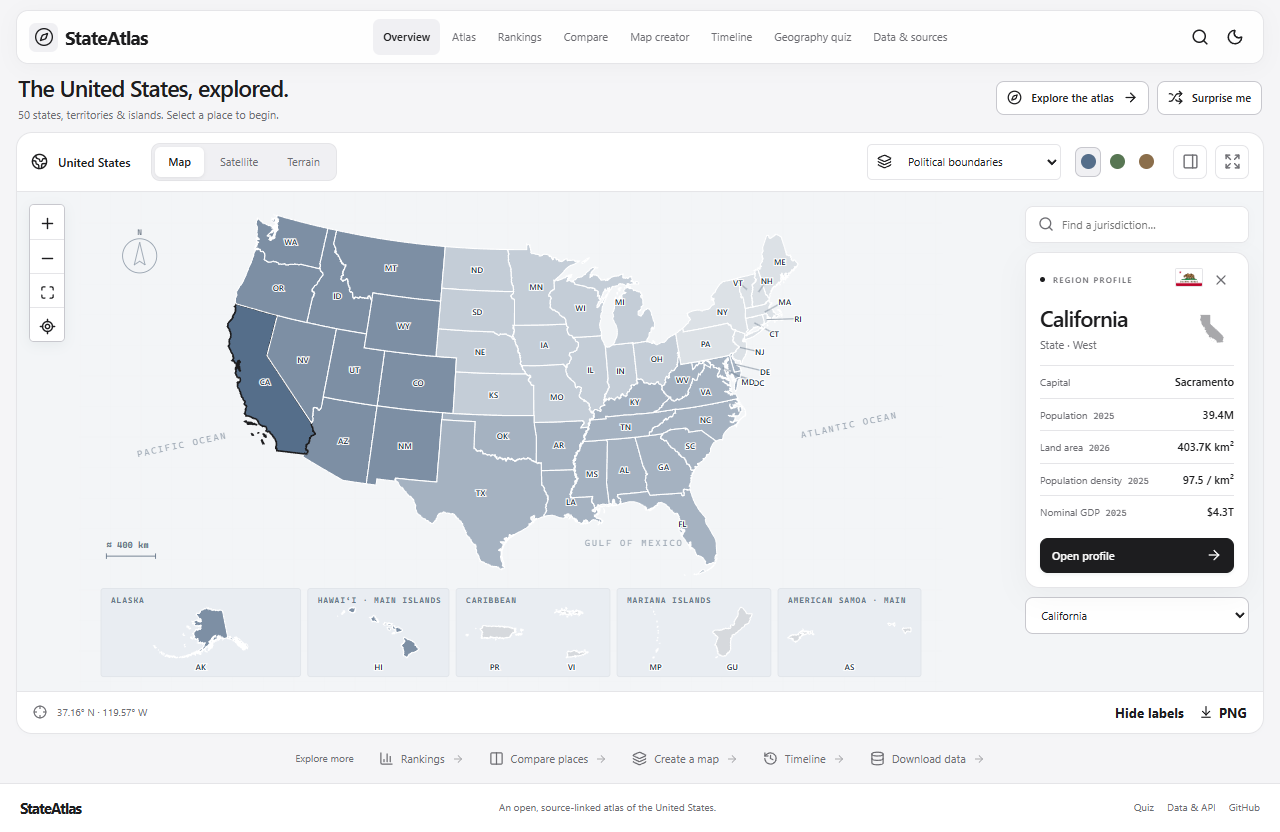
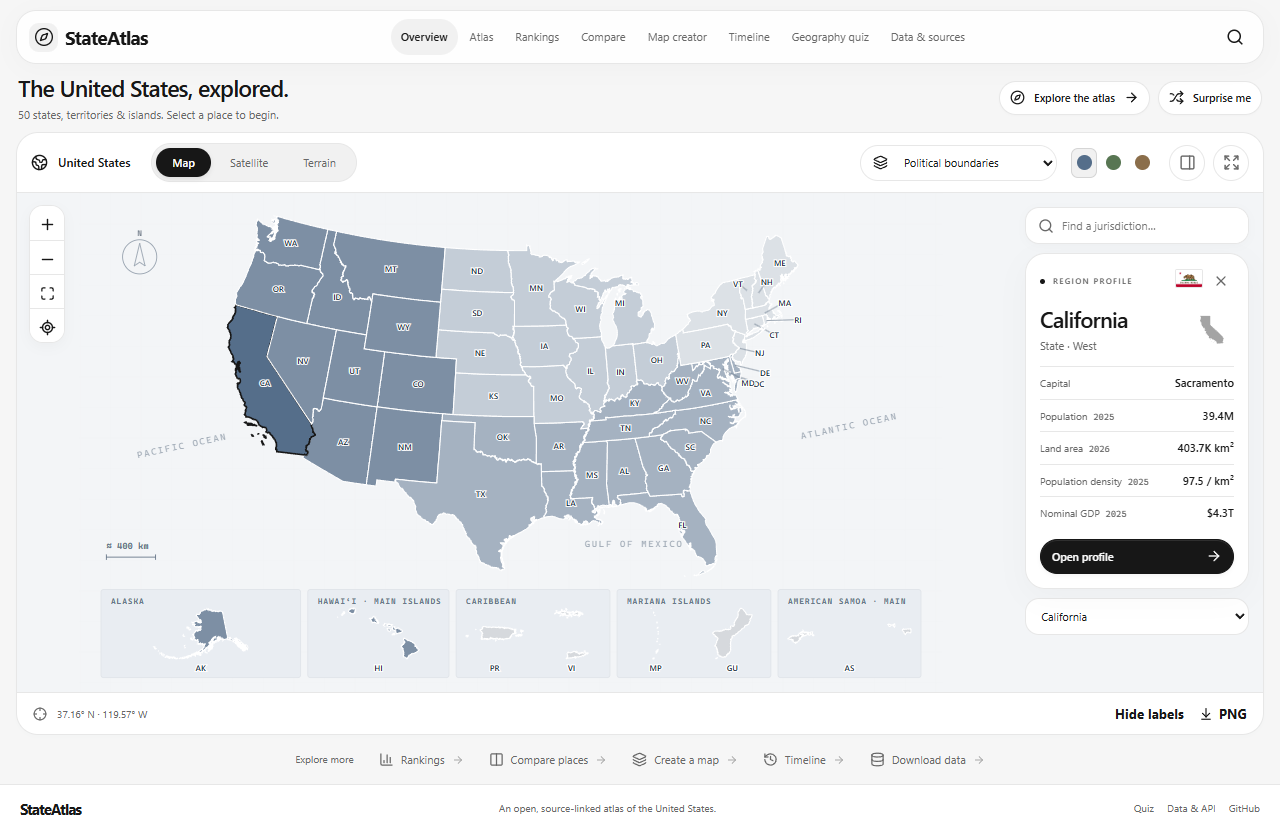
style: unify monochrome theme and refine rounded controls

diff --git a/app/workspace.css b/app/workspace.css
@@ -396,13 +396,13 @@ body > main { min-height: calc(100dvh - 128px); }
   .site-footer .footer-inner { padding-block: 12px; gap: 5px; }
 }
 
-/* Monochrome application chrome; geographic color is reserved for the map. */
+/* One monochrome interface; geographic color is reserved for the map. */
 ::selection { color: var(--surface); background: var(--ink); }
 button:focus-visible, a:focus-visible, input:focus-visible, select:focus-visible { outline-color: var(--ink); }
-.site-header { background: color-mix(in srgb, var(--surface) 88%, transparent); border-color: var(--line); color: var(--ink); backdrop-filter: blur(20px); box-shadow: 0 3px 20px #00000008; }
+.site-header { background: color-mix(in srgb, var(--surface) 88%, transparent); border-color: var(--line); color: var(--ink); backdrop-filter: blur(20px); box-shadow: 0 4px 24px #00000006; border-radius: 20px; }
 .site-header .brand, .site-header .brand > span > span { color: var(--ink); }
 .site-header .brand-icon { color: var(--ink); background: var(--surface-alt); }
-.header-inner nav a { color: var(--muted); }
+.header-inner nav a { color: var(--muted); border-radius: 999px; }
 .header-inner nav a:hover, .header-inner nav a[aria-current] { color: var(--ink); background: var(--surface-alt); }
 .site-header .header-tools .icon-button, .mobile-menu { color: var(--ink); }
 .site-header .header-tools .icon-button:hover, .mobile-menu:hover { background: var(--surface-alt); color: var(--ink); }
@@ -418,15 +418,15 @@ button:focus-visible, a:focus-visible, input:focus-visible, select:focus-visible
 .map-toolbar .map-tag { color: var(--ink); }
 .map-toolbar .map-tag small { display: none; }
 .map-toolbar .map-tag strong { font-size: 12px; font-weight: 600; }
-.atlas-card { border-radius: 16px; }
+.atlas-card { border-radius: 22px; }
 .atlas-workspace .map-toolbar { padding: 10px 14px; gap: 15px; flex-wrap: wrap; min-height: 58px; }
-.map-modes { display: flex; align-items: center; gap: 3px; border: 1px solid var(--line); border-radius: 9px; padding: 3px; background: var(--surface-alt); margin-left: 6px; }
-.map-modes button { background: transparent; border: 0; border-radius: 6px; font-size: 11px; padding: 6px 13px; min-height: 29px; color: var(--muted); }
-.map-modes button[aria-pressed="true"] { background: var(--surface); color: var(--ink); font-weight: 600; box-shadow: 0 1px 4px #00000013; }
+.map-modes { display: flex; align-items: center; gap: 3px; border: 1px solid var(--line); border-radius: 999px; padding: 4px; background: var(--surface-alt); margin-left: 6px; }
+.map-modes button { background: transparent; border: 0; border-radius: 999px; font-size: 11px; padding: 6px 16px; min-height: 29px; color: var(--muted); }
+.map-modes button[aria-pressed="true"] { background: var(--ink); color: #fff; font-weight: 600; box-shadow: 0 2px 5px #00000015; }
 .map-toolbar-actions { display: flex; align-items: center; gap: 8px; margin-left: auto; }
 .map-toolbar-actions > .select-control { max-width: 200px; border-color: var(--line); }
 .map-toolbar-actions select { min-height: 34px; font-size: 11px; width: 100%; }
-.map-toolbar-actions .icon-button { width: 34px; height: 34px; border: 1px solid var(--line); }
+.map-toolbar-actions .icon-button { width: 36px; height: 36px; border: 1px solid var(--line); border-radius: 50%; }
 .palette-picker { display: flex; align-items: center; gap: 3px; padding: 0 6px; }
 .palette-swatch { width: 26px; height: 30px; border: 1px solid transparent; background: transparent; border-radius: 7px; padding: 4px; display: grid; place-items: center; }
 .palette-swatch span { display: block; width: 15px; height: 15px; border-radius: 50%; }
@@ -436,7 +436,7 @@ button:focus-visible, a:focus-visible, input:focus-visible, select:focus-visible
 .map-scene .atlas-sidebar { width: 224px; }
 .map-scene .atlas-sidebar[hidden] { display: none; }
 .details-hidden .map-scene .atlas-svg { width: 100%; }
-.map-scene .region-card { border-color: var(--line); border-radius: 14px; box-shadow: 0 8px 30px #0000000a; }
+.map-scene .region-card { border-color: var(--line); border-radius: 20px; box-shadow: 0 8px 30px #00000007; }
 .map-scene .region-picker label { border-color: var(--line); box-shadow: 0 2px 10px #00000005; }
 .map-scene .region-title .silhouette { color: var(--muted); }
 .map-scene .region-card-label .eyebrow { letter-spacing: 1.3px; }
@@ -456,7 +456,7 @@ button:focus-visible, a:focus-visible, input:focus-visible, select:focus-visible
 .raster-status > span { white-space: nowrap; }
 .imagery-overview { position: absolute; left: 10px; top: 116px; min-height: 31px; font-size: 10px; padding: 6px 9px; z-index: 1; }
 .maplibregl-ctrl-attrib { font-size: 10px !important; max-width: calc(100% - 20px); }
-.maplibregl-ctrl-group { border-radius: 8px !important; overflow: hidden; }
+.maplibregl-ctrl-group { border-radius: 14px !important; overflow: hidden; }
 .atlas-expanded { position: fixed; z-index: 80; inset: 0; background: var(--paper); padding: 0; }
 .atlas-expanded > .atlas-card { height: 100%; display: flex; flex-direction: column; border-radius: 0; border: 0; }
 .atlas-expanded .map-scene { flex: 1; min-height: 0; overflow: auto; }
@@ -488,4 +488,33 @@ button:focus-visible, a:focus-visible, input:focus-visible, select:focus-visible
   .atlas-expanded .raster-panel { height: 65dvh; }
   .atlas-expanded.details-hidden .raster-panel { height: 100%; }
   .raster-status { font-size: 9px; }
+}
+
+/* Rounded controls and restrained depth across atlas tools. */
+button, input, select { border-radius: 12px; }
+button, .primary-button, .quiet-button, .header-inner nav a { transition: background-color 160ms ease, border-color 160ms ease, box-shadow 160ms ease, transform 160ms ease; }
+.primary-button, .quiet-button { border-radius: 999px; min-height: 40px; padding: 10px 18px; font-weight: 600; letter-spacing: -.1px; }
+.primary-button { background: #171717; color: #fff; border-color: #171717; box-shadow: inset 0 1px 0 #ffffff1a, 0 2px 4px #0000000a; }
+.primary-button:hover { background: #303030; border-color: #303030; box-shadow: 0 4px 10px #00000012; }
+.quiet-button { border-color: var(--line); box-shadow: 0 1px 2px #00000004; }
+.quiet-button:hover { background: #f5f5f5; border-color: #d2d2d2; }
+button:active:not(:disabled), .primary-button:active, .quiet-button:active { transform: translateY(1px); }
+.icon-button { border-radius: 50%; }
+.site-header .header-search { background: var(--surface-alt); }
+.site-header .brand-icon { border-radius: 10px; }
+.select-control { border-radius: 999px; padding-left: 12px; overflow: hidden; }
+.select-control select { border-radius: 999px; }
+.map-modes button:hover:not([aria-pressed="true"]) { background: #e6e6e6; color: var(--ink); }
+.map-scene .region-picker label { border-radius: 14px; }
+.map-scene .region-picker input { border-radius: 14px; }
+.jump-control select { border-radius: 14px; border-color: var(--line); }
+.map-scene .profile-link { border-radius: 999px; }
+.map-scene .map-zoom { border-radius: 14px; border-color: var(--line); box-shadow: 0 4px 12px #00000008; }
+.map-zoom button:hover:not(:disabled) { background: var(--surface-alt); }
+.panel, .feature-card, .timeline-canvas, .timeline-value, .compare-card, .ranking-map, .creator-map { border-radius: 20px; }
+.command-dialog { border-radius: 24px; }
+.command-results button { border-radius: 12px; }
+.table-scroll { border-radius: 16px; }
+@media (prefers-reduced-motion: reduce) {
+  button, .primary-button, .quiet-button, .header-inner nav a { transition: none; }
 }

diff --git a/components/navigation.tsx b/components/navigation.tsx
@@ -2,8 +2,8 @@
 
 import Link from "next/link";
 import { usePathname, useRouter } from "next/navigation";
-import { ArrowRight, BarChart3, Compass, Database, GraduationCap, History, House, Layers3, Map, Menu, Moon, Search, Sun, Columns2, X } from "lucide-react";
-import { useEffect, useRef, useState, useSyncExternalStore } from "react";
+import { ArrowRight, BarChart3, Compass, Database, GraduationCap, History, House, Layers3, Map, Menu, Search, Columns2, X } from "lucide-react";
+import { useEffect, useRef, useState } from "react";
 import { metrics } from "@/lib/metrics";
 import type { Region } from "@/lib/types";
 
@@ -19,13 +19,6 @@ export const nav = [
 ];
 
 const github = "https://github.com/PRABHMANNAT/united-states-territories-mapper-geoatlas";
-const themeEvent = "stateatlas-theme-change";
-const readTheme = () => document.documentElement.dataset.theme === "dark";
-const initialTheme = () => false;
-function subscribeTheme(listener: () => void) {
-  window.addEventListener(themeEvent, listener);
-  return () => window.removeEventListener(themeEvent, listener);
-}
 
 export function Brand() {
   return <Link href="/" className="brand" aria-label="StateAtlas home"><span className="brand-icon"><Compass size={24} strokeWidth={1.6} /></span><span>State<span>Atlas</span><small>AN AMERICAN ATLAS</small></span></Link>;
@@ -59,7 +52,6 @@ export function Navigation({ regions }: { regions: Region[] }) {
   const [query, setQuery] = useState("");
   const [index, setIndex] = useState(0);
   const [menuOpen, setMenuOpen] = useState(false);
-  const dark = useSyncExternalStore(subscribeTheme, readTheme, initialTheme);
 
   function open() {
     setMenuOpen(false);
@@ -83,14 +75,6 @@ export function Navigation({ regions }: { regions: Region[] }) {
       window.removeEventListener("atlas-search", open);
     };
   }, []);
-
-  function toggleTheme() {
-    const next = document.documentElement.dataset.theme !== "dark";
-    document.documentElement.dataset.theme = next ? "dark" : "light";
-    try { localStorage.setItem("stateatlas-theme", next ? "dark" : "light"); }
-    catch { /* The theme still applies to the current page. */ }
-    window.dispatchEvent(new Event(themeEvent));
-  }
 
   const options: Result[] = [
     ...nav.map((item) => ({ name: item.title, detail: "Page", href: item.href })),
@@ -122,7 +106,6 @@ export function Navigation({ regions }: { regions: Region[] }) {
       </nav>
       <div className="header-tools">
         <button className="icon-button header-search" onClick={open} aria-label="Search the atlas" title="Search places & tools (Ctrl/Cmd K)"><Search size={18}/></button>
-        <button className="icon-button theme-button" onClick={toggleTheme} aria-label="Toggle light or dark theme" aria-pressed={dark}><Moon className="moon-icon" size={18}/><Sun className="sun-icon" size={18}/></button>
       </div>
     </div></header>
     <dialog ref={dialog} className="command-dialog" aria-labelledby="command-title" onClick={(event) => { if (event.target === event.currentTarget) dialog.current?.close(); }}>

diff --git a/app/globals.css b/app/globals.css
@@ -1,18 +1,18 @@
 :root {
   color-scheme: light;
-  --paper: #f5f5f7;
+  --paper: #f6f6f6;
   --surface: #ffffff;
-  --surface-alt: #f0f0f3;
-  --ink: #1d1d1f;
-  --muted: #6e6e73;
-  --faint: #75757b;
-  --line: #e5e5e8;
-  --strong-line: #c8c8ce;
-  --brand: #1d1d1f;
+  --surface-alt: #f1f1f1;
+  --ink: #171717;
+  --muted: #686868;
+  --faint: #737373;
+  --line: #e7e7e7;
+  --strong-line: #d5d5d5;
+  --brand: #171717;
   --brand-dark: #000000;
   --button-ink: #ffffff;
-  --accent: #303035;
-  --accent-bg: #ececf0;
+  --accent: #303030;
+  --accent-bg: #eeeeee;
   --map-paper: #f3f5f7;
   --map-grid: #e0e4e9;
   --map-land: #a5b2c1;
@@ -25,31 +25,6 @@
   --serif: Georgia, "Times New Roman", serif;
   --sans: -apple-system, BlinkMacSystemFont, "Segoe UI", system-ui, sans-serif;
   --mono: "Cascadia Mono", "SFMono-Regular", Consolas, monospace;
-}
-:root[data-theme="dark"] {
-  color-scheme: dark;
-  --paper: #101012;
-  --surface: #1c1c1e;
-  --surface-alt: #2c2c2e;
-  --ink: #f5f5f7;
-  --muted: #b1b1b8;
-  --faint: #a1a1aa;
-  --line: #39393d;
-  --strong-line: #54545b;
-  --brand: #f5f5f7;
-  --brand-dark: #ffffff;
-  --button-ink: #1d1d1f;
-  --accent: #c0c0c7;
-  --accent-bg: #303034;
-  --map-paper: #191c22;
-  --map-grid: #2b3038;
-  --map-land: #416a62;
-  --map-edge: #9ab5a9;
-  --map-ink: #f1f8f1;
-  --map-muted: #9bb6b9;
-  --map-selected: #a66e48;
-  --map-inset: #242a33;
-  --map-missing: #384a53;
 }
 * { box-sizing: border-box; }
 body { margin: 0; background: var(--paper); color: var(--ink); font: 15px/1.55 var(--sans); }
@@ -84,8 +59,6 @@ svg { flex-shrink: 0; vertical-align: middle; }
 kbd { font: 10px var(--mono); padding: 3px 5px; background: var(--surface-alt); color: var(--muted); border-radius: 3px; }
 .icon-button { display: inline-grid; place-items: center; width: 37px; height: 37px; padding: 0; color: var(--muted); border: 1px solid transparent; border-radius: 5px; background: transparent; }
 .icon-button:hover { background: var(--surface-alt); color: var(--brand); }
-.sun-icon, :root[data-theme="dark"] .moon-icon { display: none; }
-:root[data-theme="dark"] .sun-icon { display: inline; }
 .primary-button, .quiet-button { display: inline-flex; justify-content: center; align-items: center; gap: 9px; min-height: 41px; padding: 8px 14px; border: 1px solid var(--strong-line); border-radius: 5px; font-weight: 650; font-size: 14px; white-space: nowrap; }
 .primary-button { border-color: var(--brand); color: var(--button-ink); background: var(--brand); }
 .primary-button:hover { background: var(--brand-dark); }

diff --git a/tests/e2e/atlas.spec.ts b/tests/e2e/atlas.spec.ts
@@ -124,17 +124,20 @@ test("captures the home layout with no horizontal overflow", async ({ page }, te
   await page.screenshot({ path: testInfo.outputPath(`home-${testInfo.project.name}.png`), fullPage: true });
 });
 
-test("falls back when imagery is offline, exports the map, and persists dark mode", async ({ page }) => {
+test("falls back offline, exports the map, and keeps the single theme", async ({ page }) => {
   await page.route("https://basemap.nationalmap.gov/**", (route) => route.abort());
+  await page.emulateMedia({ colorScheme: "dark" });
+  await page.addInitScript(() => localStorage.setItem("stateatlas-theme", "dark"));
   await page.goto("/map?region=PR");
   await page.getByRole("combobox", { name: "Map layer" }).selectOption("satellite");
   await expect(page.getByText("Imagery could not be loaded.", { exact: false })).toBeVisible({ timeout: 25000 });
   const imageDownload = page.waitForEvent("download");
   await page.getByRole("button", { name: "PNG", exact: true }).click();
   expect((await imageDownload).suggestedFilename()).toBe("stateatlas-map.png");
-  await page.getByRole("button", { name: "Toggle light or dark theme" }).click();
   await page.reload();
-  await expect(page.locator("html")).toHaveAttribute("data-theme", "dark");
+  await expect(page.getByRole("button", { name: "Toggle light or dark theme" })).toHaveCount(0);
+  await expect(page.locator("html")).toHaveCSS("color-scheme", "light");
+  await expect(page.locator("body")).toHaveCSS("background-color", "rgb(246, 246, 246)");
 });
 
 test("loads satellite and terrain with bundled worker and public provider defaults", async ({ page }) => {

diff --git a/app/layout.tsx b/app/layout.tsx
@@ -11,11 +11,8 @@ export const metadata: Metadata = {
   openGraph: { title: "StateAtlas", description: "An open atlas of U.S. states, territories, and outlying islands.", images: process.env.STATEATLAS_URL ? ["/social.png"] : undefined },
 };
 
-const themeScript = "try{document.documentElement.dataset.theme=localStorage.getItem('stateatlas-theme')||(matchMedia('(prefers-color-scheme: dark)').matches?'dark':'light')}catch{}";
-
 export default function RootLayout({ children }: Readonly<{ children: React.ReactNode }>) {
-  return <html lang="en" suppressHydrationWarning>
-    <head><script dangerouslySetInnerHTML={{ __html: themeScript }} /></head>
+  return <html lang="en">
     <body><a className="skip-link" href="#main">Skip to content</a><Navigation regions={regions} /><main id="main">{children}</main><Footer /></body>
   </html>;
 }

diff --git a/README.md b/README.md
@@ -8,7 +8,7 @@ StateAtlas is an interactive atlas and statistical field guide for the 50 states
 
 [Mobile screenshot](docs/screenshots/atlas-mobile.png) · [Timeline workspace](docs/screenshots/timeline-desktop.png) · [Social preview artwork](public/social.png)
 
-Use the slim floating navigation to move between tools, or search places and metrics with **Ctrl/Cmd K**. The full-width atlas keeps search and region details inside the map panel, with a compact heading and shortcut row. On smaller screens, the menu beside the wordmark opens all destinations and region details sit below the map within the same panel. Light and dark themes remember your preference.
+Use the slim floating navigation to move between tools, or search places and metrics with **Ctrl/Cmd K**. The full-width atlas keeps search and region details inside the map panel, with a compact heading and shortcut row. On smaller screens, the menu beside the wordmark opens all destinations and region details sit below the map within the same panel. A single black-and-white interface uses rounded controls and consistent contrast, independent of system appearance. Map palettes remain available for geographic data.
 
 ## Run locally
 
